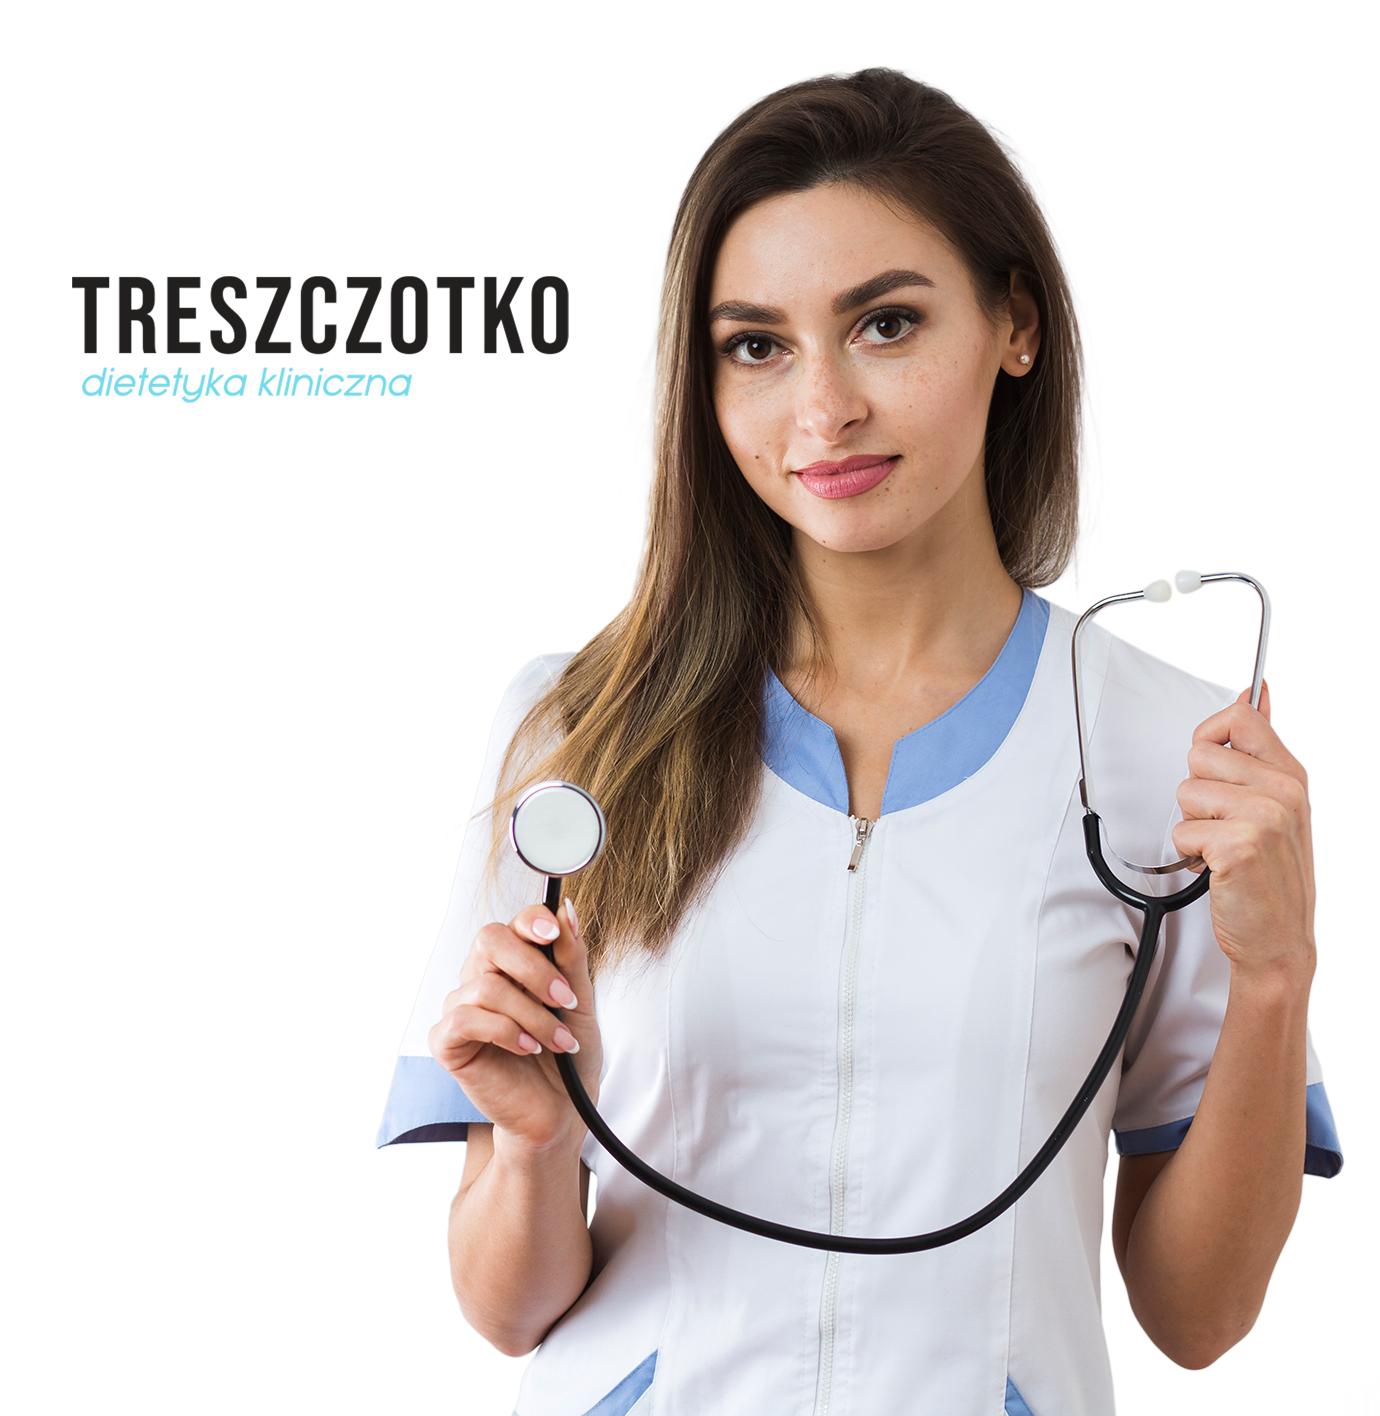
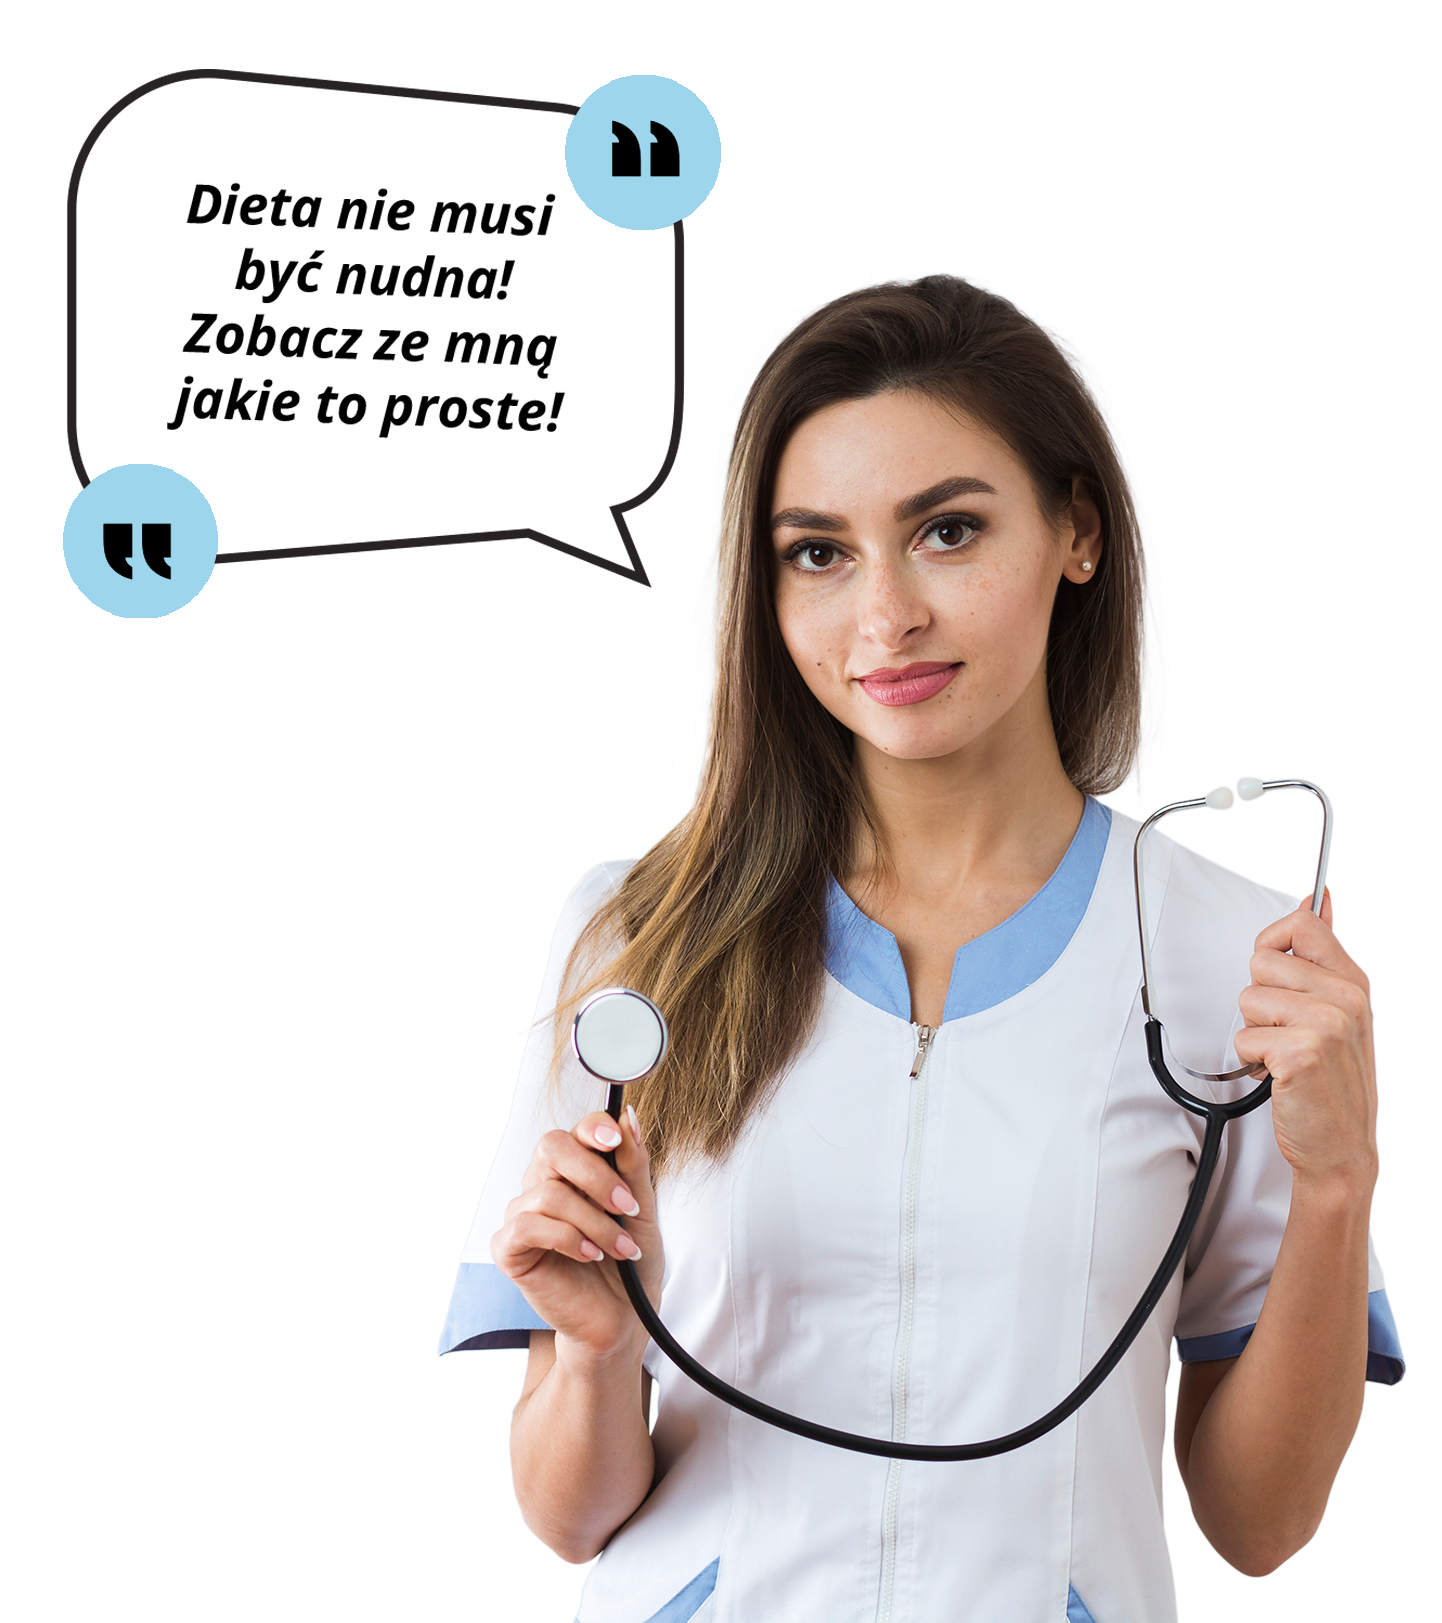
add dietitian testimonial

diff --git a/index.html b/index.html
@@ -112,7 +112,7 @@
         <div class="columnImages__wrap">
           <img class="columnImages__blob" src="svg/blob.svg" alt="blob">
           <img class="columnImages__blobSmall" src="svg/blob.svg" alt="blob">
-          <img class="columnImages__imgDietitian columnImages__imgDietitian--nutritionist" src="img/test2.png"
+          <img class="columnImages__imgDietitian columnImages__imgDietitian--nutritionist" src="img/test3.png"
             alt="animacja dietetyk">
         </div>
       </section>
